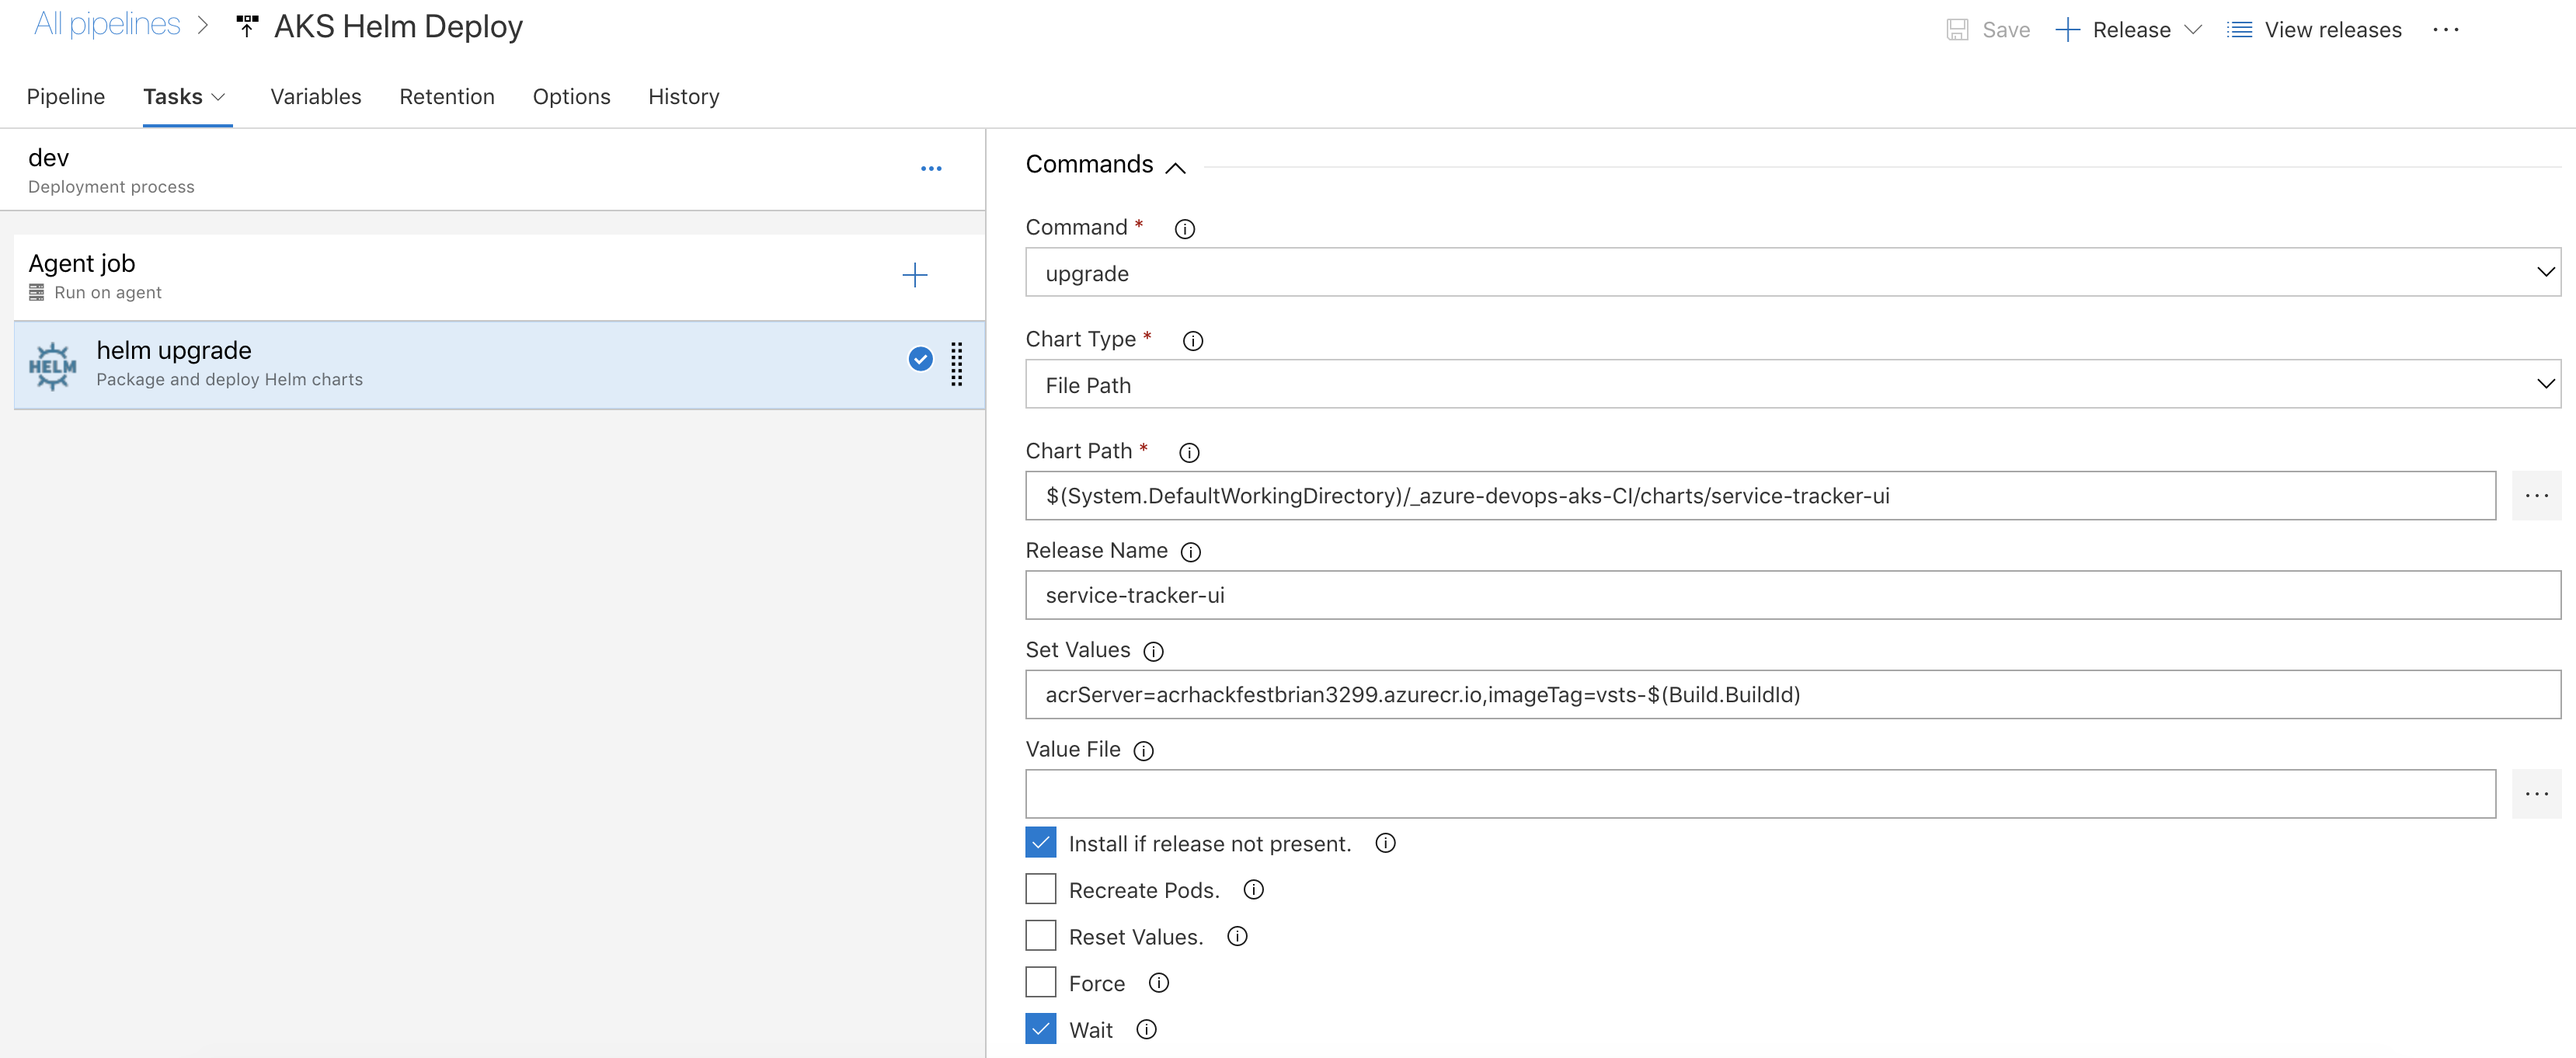
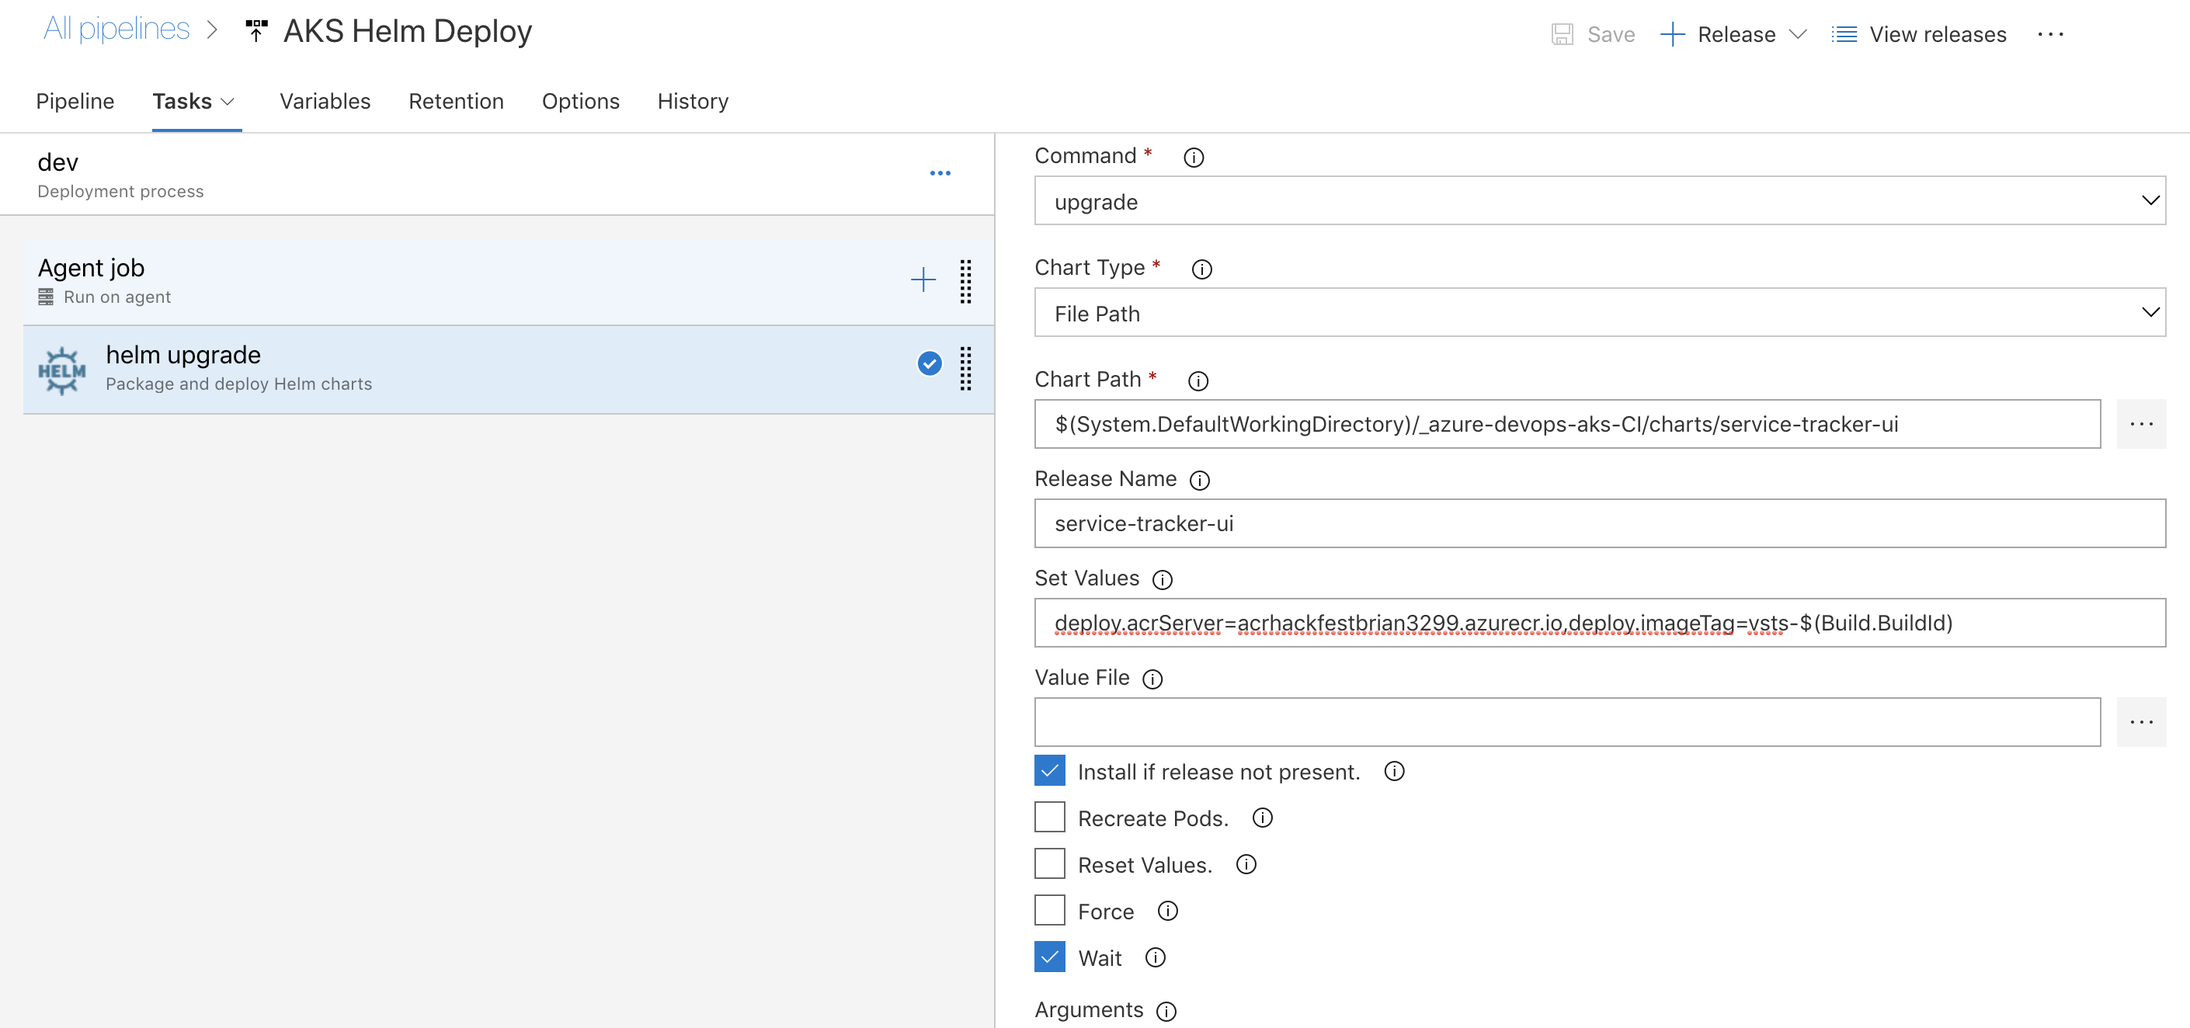
great odin's raven

diff --git a/labs/cicd-automation/azure-devops/README.md b/labs/cicd-automation/azure-devops/README.md
@@ -108,7 +108,7 @@ In the deployment pipeline, we will create a Helm task to update our application
     * For Chart path, click the "..." button and browse to the "service-trakcer-ui" chart in the charts directory
     * For the Release Name, enter `service-tracker-ui`
     * For Set Values you will need to fix the ACR server to match your ACR server name and the imageTag needs to be set. 
-        Eg - `acrServer=acrhackfestbrian123.azurecr.io,imageTag=vsts-$(Build.BuildId)`
+        Eg - `deploy.acrServer=acrhackfestbrian3299.azurecr.io,deploy.imageTag=vsts-$(Build.BuildId)`
 
     ![](azure-do-helm-task.png)
 
